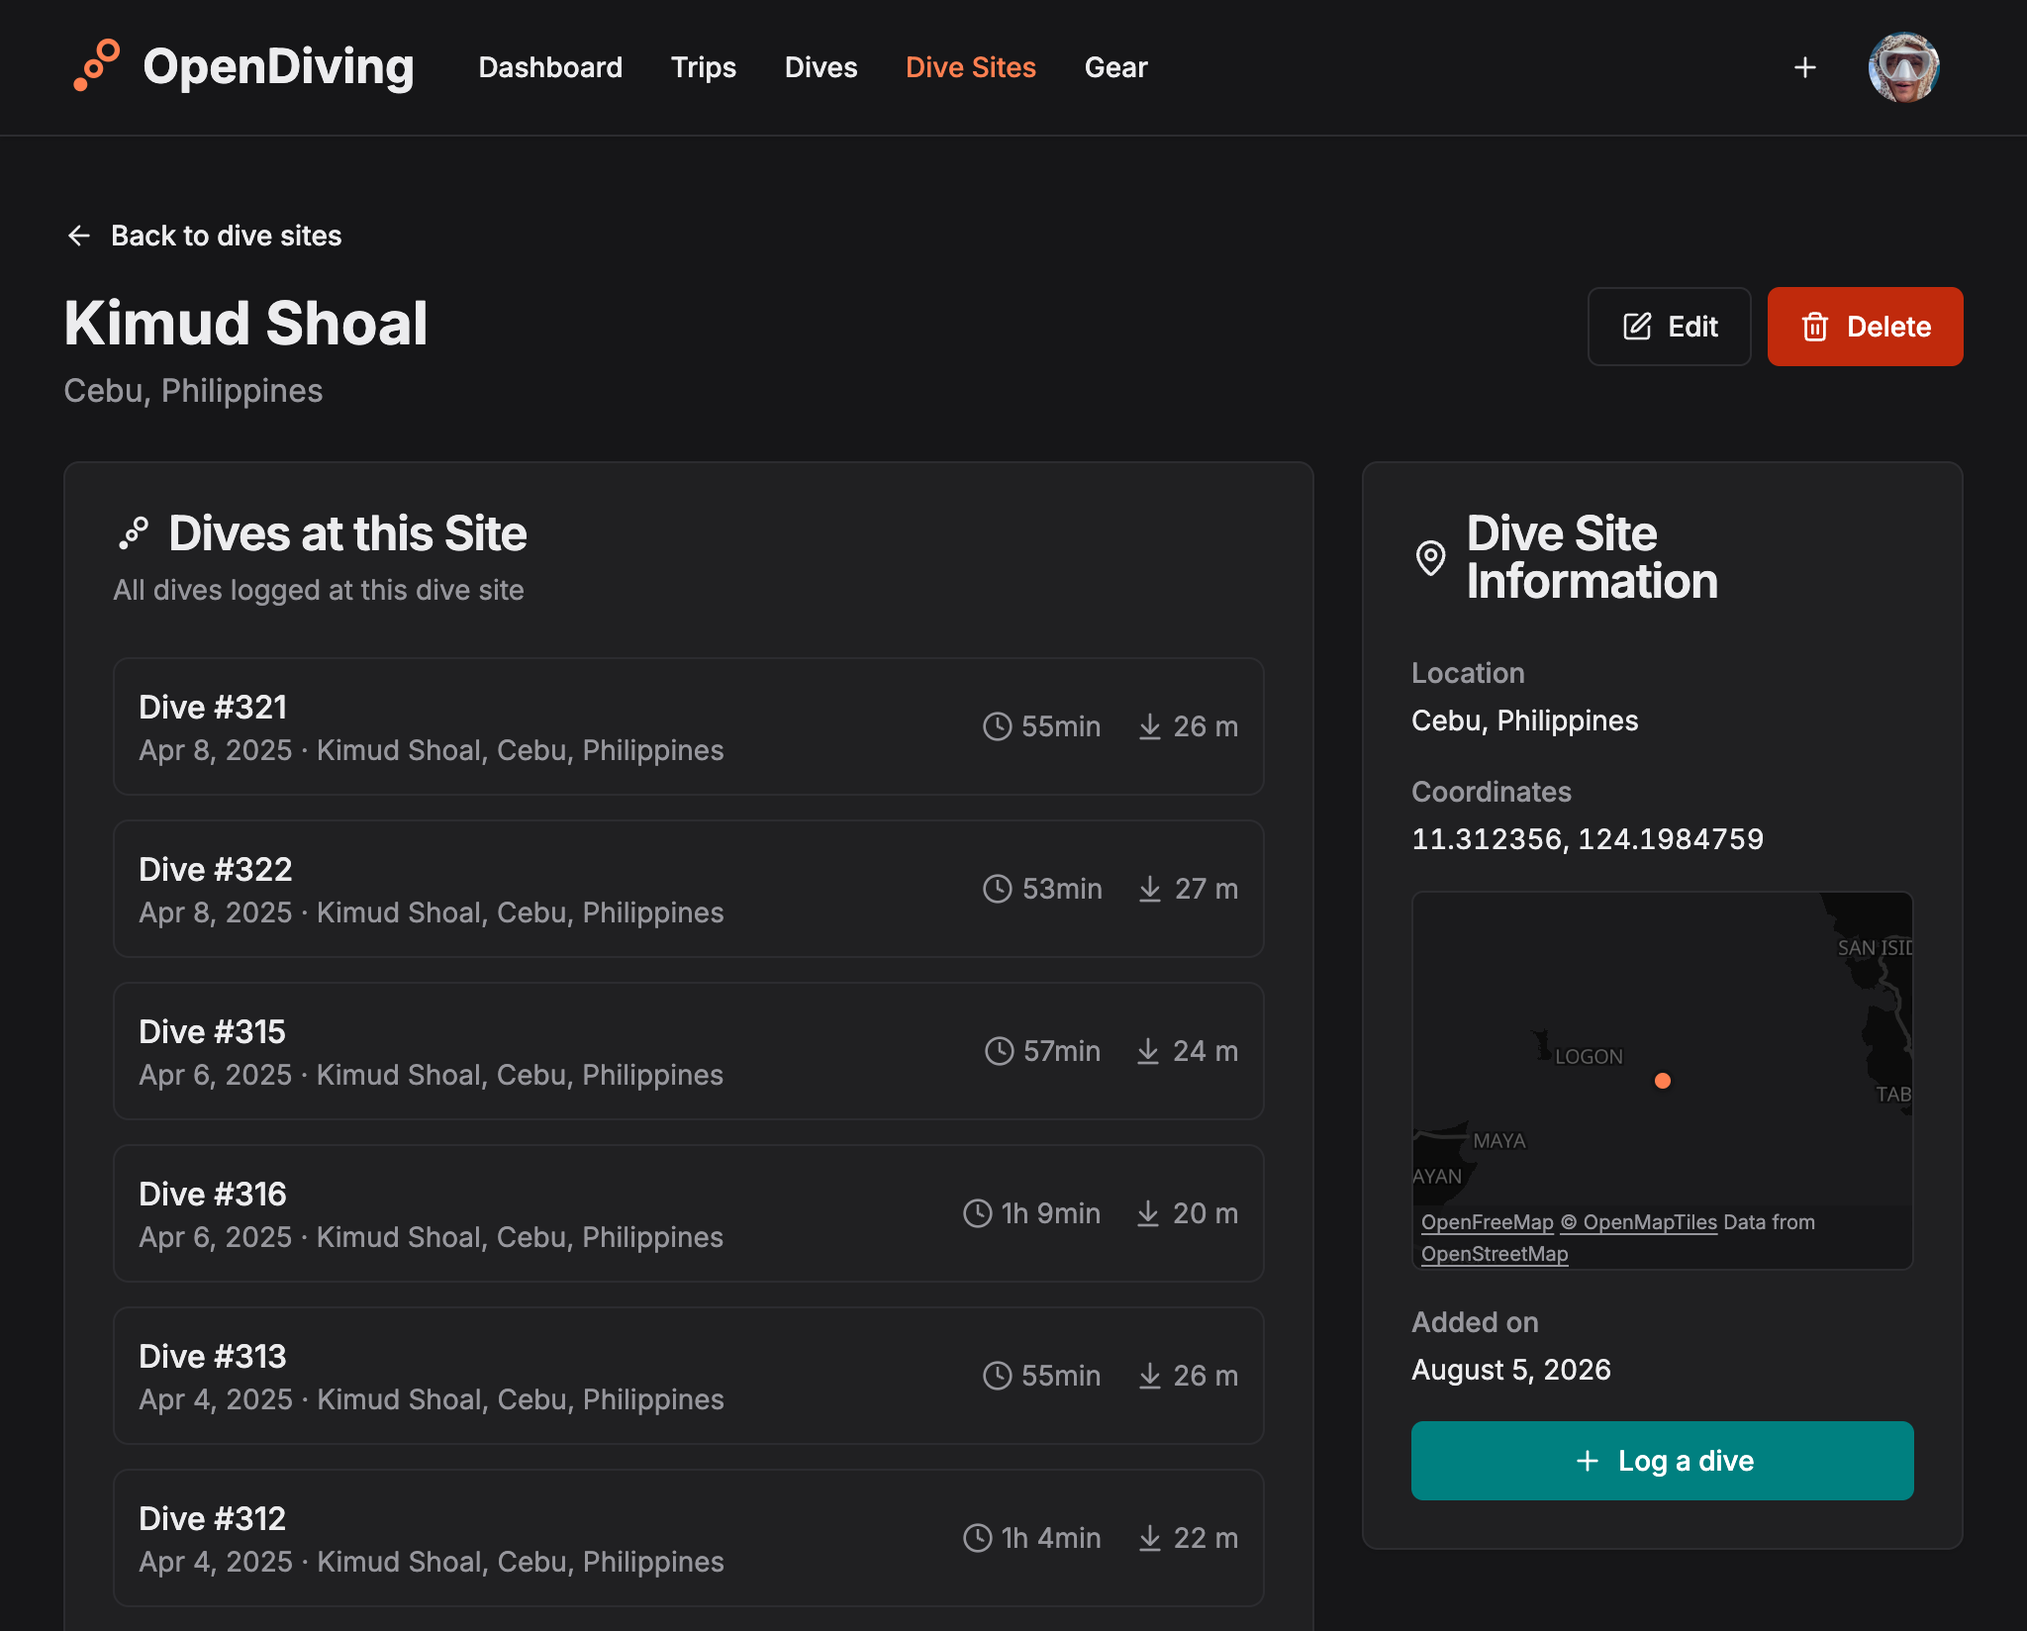
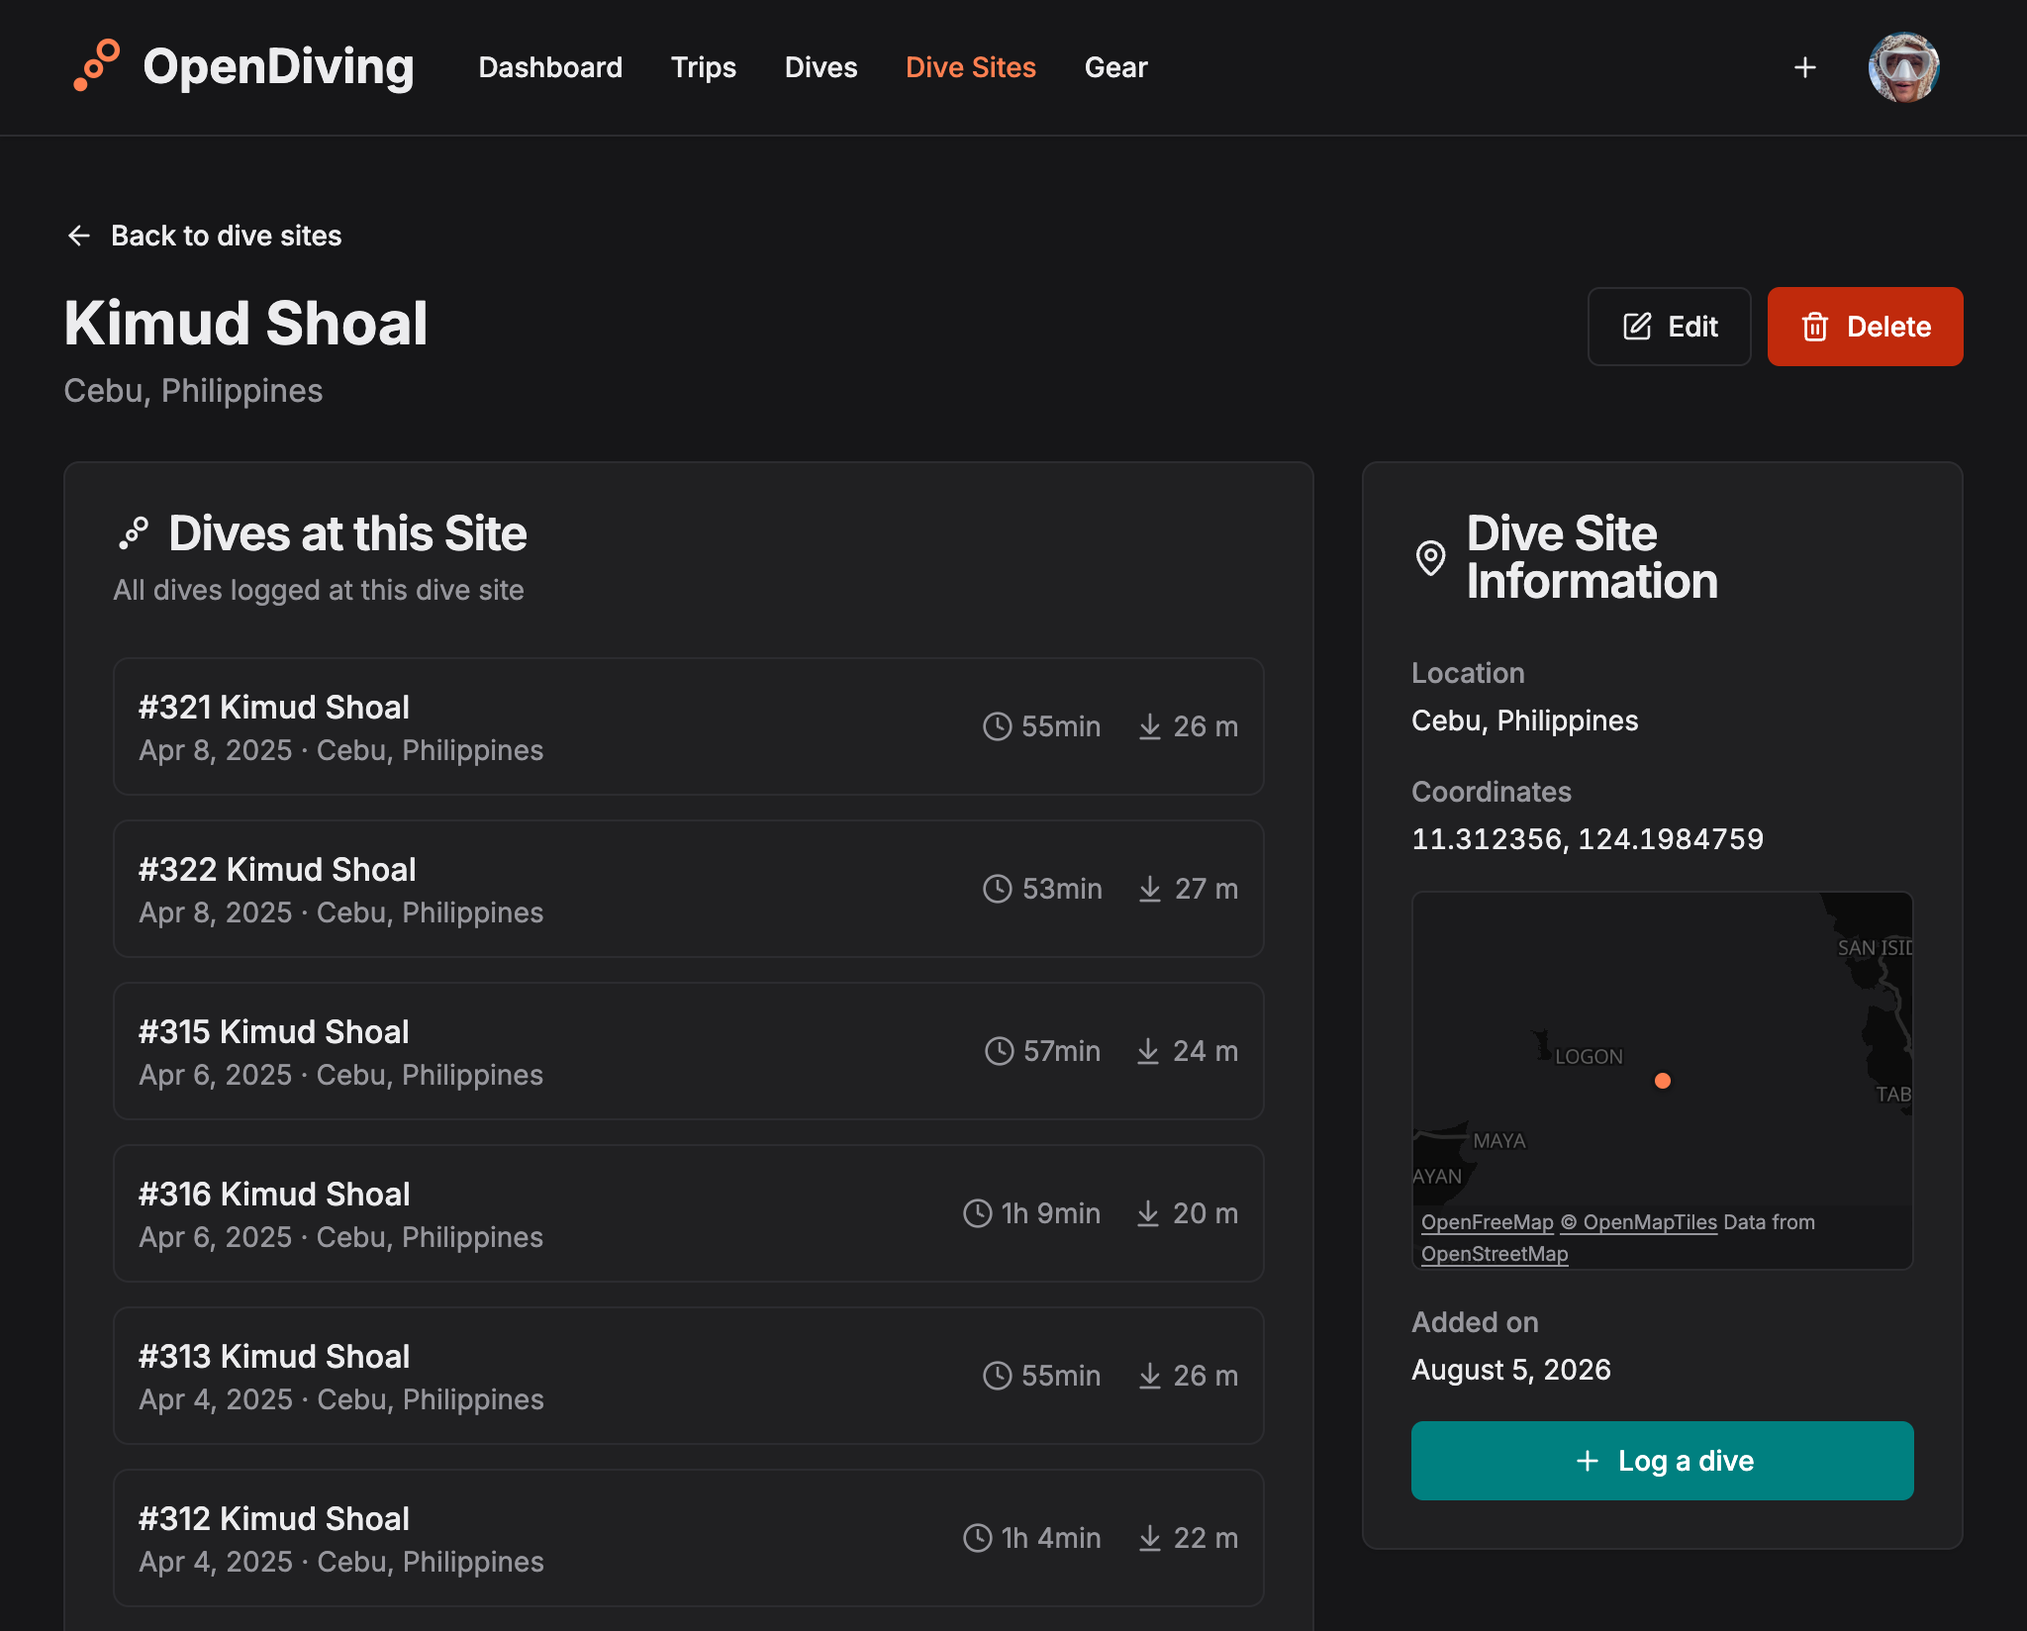
feat(dives): a dive is titled by its number and its site (#273)

diff --git a/src/components/dives/dive-detail-sidebar.tsx b/src/components/dives/dive-detail-sidebar.tsx
@@ -9,6 +9,7 @@ import { formatDistance, GeoPoint, haversineMeters } from "@/lib/geo-distance";
 import { formatCoordinates } from "@/lib/validations/dive-site";
 import { Card, CardContent, CardHeader, CardTitle } from "@/components/ui/card";
 import { DiveSitesLabel } from "@/components/dives/dive-sites-label";
+import { TripLocationsLabel } from "@/components/trips/trip-locations-label";
 import { DiveRecordingsCard } from "@/components/dives/dive-recordings-card";
 import { LocationsMap } from "@/components/map/locations-map-lazy";
 import type { MappableLocation } from "@/components/map/locations-map";
@@ -126,13 +127,24 @@ export function DiveDetailSidebar({
                 <div className="text-sm font-medium text-muted-foreground mb-1">
                   Trip
                 </div>
-                <Link
-                  href={`/trips/${trip.uuid}`}
-                  className="flex items-center gap-2 text-sm font-medium hover:underline"
-                >
-                  <Luggage className="h-4 w-4 text-muted-foreground" />
-                  {trip.name}
-                </Link>
+                {/* Only the name links - where a trip went is not a second
+                    way to reach it - and the icon sits against that first line
+                    rather than the middle of two. */}
+                <div className="flex items-start gap-2 text-sm">
+                  <Luggage className="h-4 w-4 shrink-0 mt-0.5 text-muted-foreground" />
+                  <div className="min-w-0">
+                    <Link
+                      href={`/trips/${trip.uuid}`}
+                      className="font-medium hover:underline"
+                    >
+                      {trip.name}
+                    </Link>
+                    <TripLocationsLabel
+                      locations={trip.locations}
+                      className="block text-muted-foreground"
+                    />
+                  </div>
+                </div>
               </div>
             )}
             {dive.dive_sites.length > 0 && (
@@ -140,9 +152,20 @@ export function DiveDetailSidebar({
                 <div className="text-sm font-medium text-muted-foreground mb-1">
                   Dive Site
                 </div>
-                <div className="flex items-center gap-2 text-sm font-medium">
-                  <MapPin className="h-4 w-4 text-muted-foreground" />
-                  <DiveSitesLabel sites={dive.dive_sites} linked />
+                <div className="flex items-start gap-2 text-sm">
+                  <MapPin className="h-4 w-4 shrink-0 mt-0.5 text-muted-foreground" />
+                  <div className="min-w-0">
+                    <DiveSitesLabel
+                      sites={dive.dive_sites}
+                      linked
+                      className="font-medium"
+                    />
+                    {dive.dive_sites[0]?.location && (
+                      <span className="block text-muted-foreground">
+                        {dive.dive_sites[0].location}
+                      </span>
+                    )}
+                  </div>
                 </div>
               </div>
             )}

diff --git a/e2e/instant-navigations.spec.ts b/e2e/instant-navigations.spec.ts
@@ -1,5 +1,6 @@
 import { instant } from "@next/playwright";
 
+import type { Dive } from "@/lib/api/dives";
 import {
   DIVE_A,
   DIVE_B,
@@ -53,6 +54,11 @@ declare global {
  * router happened to fetch it under.
  */
 const DIVE_ROUTE = /^\/dives\/[0-9a-f-]{36}$/;
+
+/** What the `<h1>` says for a dive: its number and where it was. */
+function diveTitle(dive: Dive) {
+  return `#${dive.dive_number} ${dive.dive_sites[0].name}`;
+}
 
 async function prefetched(api: ApiMock, route: RegExp) {
   await expect
@@ -142,7 +148,7 @@ test.describe("instant navigations", () => {
 
     api.release();
     await expect(page.getByRole("heading", { level: 1 })).toHaveText(
-      `Dive #${DIVE_A.dive_number}`,
+      diveTitle(DIVE_A),
     );
   });
 
@@ -156,7 +162,7 @@ test.describe("instant navigations", () => {
       .getByRole("link", { name: `View dive #${DIVE_A.dive_number}` })
       .click();
     await expect(page.getByRole("heading", { level: 1 })).toHaveText(
-      `Dive #${DIVE_A.dive_number}`,
+      diveTitle(DIVE_A),
     );
 
     const pager = page.getByRole("navigation", { name: "Adjacent dives" });
@@ -206,17 +212,17 @@ test.describe("instant navigations", () => {
       // dive being stepped away from is still on screen in the same `<h1>`, the
       // node the diver pressed still holds the keyboard, and no skeleton bar is
       // drawn anywhere.
-      await expect(heading).toHaveText(`Dive #${DIVE_A.dive_number}`);
+      await expect(heading).toHaveText(diveTitle(DIVE_A));
       await expect(pressed).toBeFocused();
       await expect(page.locator("main .animate-skeleton")).toHaveCount(0);
     });
 
     api.release();
-    await expect(heading).toHaveText(`Dive #${DIVE_B.dive_number}`);
+    await expect(heading).toHaveText(diveTitle(DIVE_B));
     await expect(pressed).toBeFocused();
     expect(await page.evaluate(() => window.__h1Texts)).toEqual([
-      `Dive #${DIVE_A.dive_number}`,
-      `Dive #${DIVE_B.dive_number}`,
+      diveTitle(DIVE_A),
+      diveTitle(DIVE_B),
     ]);
   });
 });

diff --git a/src/app/dives/page.tsx b/src/app/dives/page.tsx
@@ -6,7 +6,7 @@ import { useInfiniteResource } from "@/hooks/useInfiniteResource";
 import { useDeleteResource } from "@/hooks/useDeleteResource";
 import { divesAPI, Dive } from "@/lib/api/dives";
 import { DELETE_DIVE_CONFIRMATION } from "@/lib/dive-recordings";
-import { DiveSitesLabel } from "@/components/dives/dive-sites-label";
+import { DiveTitle } from "@/components/dives/dive-title";
 import { DiveNumberingCard } from "@/components/dives/dive-numbering-card";
 import { DivesPageFrame } from "@/components/dives/dives-page-frame";
 import {
@@ -113,17 +113,18 @@ export default function DivesPage() {
         }
         rows={dives.map((dive) => (
           <TableRow key={dive.uuid}>
-            <TableCell className="font-medium">#{dive.dive_number}</TableCell>
-            <TableCell>
-              <Link
-                href={`/dives/${dive.uuid}`}
-                className="text-sm font-medium hover:underline"
-              >
-                {formatDiveDateTime(dive.start_time)}
+            <TableCell className="font-medium">
+              <Link href={`/dives/${dive.uuid}`} className="hover:underline">
+                <DiveTitle
+                  diveNumber={dive.dive_number}
+                  sites={dive.dive_sites}
+                />
               </Link>
             </TableCell>
+            <TableCell>{formatDiveDateTime(dive.start_time)}</TableCell>
+            {/* The primary site's location - the site the first column names. */}
             <TableCell className="text-muted-foreground">
-              <DiveSitesLabel sites={dive.dive_sites} />
+              {dive.dive_sites[0]?.location ?? "-"}
             </TableCell>
             <TableCell>{formatDurationHoursMinutes(dive.duration)}</TableCell>
             <TableCell>

diff --git a/src/components/dives/recent-dives-card.tsx b/src/components/dives/recent-dives-card.tsx
@@ -4,7 +4,7 @@ import { useCallback } from "react";
 import Link from "next/link";
 import { divesAPI, Dive } from "@/lib/api/dives";
 import { useInfiniteResource } from "@/hooks/useInfiniteResource";
-import { DiveSitesLabel } from "@/components/dives/dive-sites-label";
+import { DiveTitle } from "@/components/dives/dive-title";
 import {
   formatDiveDateTime,
   formatDurationHoursMinutes,
@@ -184,7 +184,10 @@ export function RecentDivesCard({
                     row wide on the dashboard. */}
                 <div className="min-w-0">
                   <div className="font-medium text-foreground">
-                    Dive #{dive.dive_number}
+                    <DiveTitle
+                      diveNumber={dive.dive_number}
+                      sites={dive.dive_sites}
+                    />
                   </div>
                   <div className="text-sm text-muted-foreground">
                     <span className="block sm:inline">
@@ -194,10 +197,12 @@ export function RecentDivesCard({
                         day: "numeric",
                       })}
                     </span>
-                    {dive.dive_sites.length > 0 && (
+                    {/* The title names the site; this line says where it
+                        is. */}
+                    {dive.dive_sites[0]?.location && (
                       <span className="block sm:inline">
                         <span className="hidden sm:inline">{" \u00b7 "}</span>
-                        <DiveSitesLabel sites={dive.dive_sites} showLocation />
+                        {dive.dive_sites[0].location}
                       </span>
                     )}
                   </div>

diff --git a/src/components/dives/dive-title.render.test.tsx b/src/components/dives/dive-title.render.test.tsx
@@ -1,0 +1,39 @@
+import { describe, it, expect } from "vitest";
+import { render, screen } from "@testing-library/react";
+import { DiveTitle } from "./dive-title";
+
+// One name for a dive, written the same way in the log, on the cards and in the
+// page header - so what these pin down is the two dives that name is built from
+// differently: one with a site, and one with none.
+
+describe("DiveTitle", () => {
+  it("names the dive by its number and its site", () => {
+    const { container } = render(
+      <DiveTitle diveNumber={212} sites={[{ uuid: "a", name: "Blue Hole" }]} />,
+    );
+
+    expect(container).toHaveTextContent("#212 Blue Hole");
+  });
+
+  it("counts the sites a multi-site dive crossed", () => {
+    render(
+      <DiveTitle
+        diveNumber={212}
+        sites={[
+          { uuid: "a", name: "Pescador Island" },
+          { uuid: "b", name: "Panagsama Wall" },
+        ]}
+      />,
+    );
+
+    expect(screen.getByText("+1")).toBeInTheDocument();
+  });
+
+  it("falls back to 'Dive #N' when there is no site to name it by", () => {
+    // A bare "#212" names nothing, and the sites are the one part of a dive
+    // that is genuinely optional.
+    const { container } = render(<DiveTitle diveNumber={212} sites={[]} />);
+
+    expect(container).toHaveTextContent("Dive #212");
+  });
+});

diff --git a/src/app/dives/(detail)/layout.tsx b/src/app/dives/(detail)/layout.tsx
@@ -11,6 +11,7 @@ import { coursesAPI, Course } from "@/lib/api/courses";
 import { DELETE_DIVE_CONFIRMATION } from "@/lib/dive-recordings";
 import { DiveNeighborNav } from "@/components/dives/dive-neighbor-nav";
 import { DiveMergeAction } from "@/components/dives/dive-merge-action";
+import { DiveTitle } from "@/components/dives/dive-title";
 import { DiveDetailProvider } from "@/components/dives/dive-detail-context";
 import { Button } from "@/components/ui/button";
 import { ConfirmDialog } from "@/components/ui/confirm-dialog";
@@ -198,7 +199,9 @@ export default function DiveDetailLayout({
       <PageHeader
         backHref="/dives"
         backLabel="Back to dives"
-        title={`Dive #${dive.dive_number}`}
+        title={
+          <DiveTitle diveNumber={dive.dive_number} sites={dive.dive_sites} />
+        }
         // The time of day sits here with the date rather than in a card of its
         // own below: the two are one fact, and splitting them put the dive's
         // date in the header and the clock it was on two scroll positions away.

diff --git a/src/components/dives/dive-sites-label.tsx b/src/components/dives/dive-sites-label.tsx
@@ -5,8 +5,6 @@ export interface DiveSitesLabelProps {
   sites: DiveSiteSummary[];
   // Wrap the primary site's name in a link to its detail page.
   linked?: boolean;
-  // Append the primary site's location (", Koh Tao, Thailand") after its name.
-  showLocation?: boolean;
   className?: string;
 }
 
@@ -17,7 +15,6 @@ export interface DiveSitesLabelProps {
 export function DiveSitesLabel({
   sites,
   linked = false,
-  showLocation = false,
   className,
 }: DiveSitesLabelProps) {
   if (sites.length === 0) {
@@ -50,7 +47,6 @@ export function DiveSitesLabel({
       ) : (
         primary.name
       )}
-      {showLocation && primary.location && `, ${primary.location}`}
       {extra.length > 0 && (
         <span className="text-muted-foreground"> +{extra.length}</span>
       )}

diff --git a/src/components/dives/dive-title.tsx b/src/components/dives/dive-title.tsx
@@ -1,0 +1,21 @@
+import { DiveSiteSummary } from "@/lib/api/dives";
+import { DiveSitesLabel } from "@/components/dives/dive-sites-label";
+
+export interface DiveTitleProps {
+  diveNumber: number;
+  sites: DiveSiteSummary[];
+}
+
+// What a dive is called wherever one is named: "#212 Blue Hole", or "Dive #212"
+// for a dive with no site to name it by - a bare "#212" names nothing on its own.
+export function DiveTitle({ diveNumber, sites }: DiveTitleProps) {
+  if (sites.length === 0) {
+    return <>Dive #{diveNumber}</>;
+  }
+
+  return (
+    <>
+      #{diveNumber} <DiveSitesLabel sites={sites} />
+    </>
+  );
+}

diff --git a/src/components/dives/dive-sites-label.render.test.tsx b/src/components/dives/dive-sites-label.render.test.tsx
@@ -52,15 +52,4 @@ describe("DiveSitesLabel", () => {
 
     expect(screen.getByText("-")).toBeInTheDocument();
   });
-
-  it("appends the primary site's location when asked, and hints names only", () => {
-    // The hint is the list the "+N" compacted, so the location that only the
-    // primary site carries has no place in it.
-    render(<DiveSitesLabel sites={sites} showLocation />);
-
-    const hinted = screen.getByTitle(
-      "Pescador Island, Panagsama Wall, Tongo Point",
-    );
-    expect(hinted).toHaveTextContent("Moalboal, Philippines");
-  });
 });

diff --git a/src/components/dives/dives-page-frame.tsx b/src/components/dives/dives-page-frame.tsx
@@ -129,9 +129,9 @@ export function DivesPageFrame({
             >
               <TableHeader>
                 <TableRow>
-                  <TableHead>#</TableHead>
+                  <TableHead>Dive</TableHead>
                   <TableHead>Date & Time</TableHead>
-                  <TableHead>Dive Site</TableHead>
+                  <TableHead>Location</TableHead>
                   <TableHead>Duration</TableHead>
                   <TableHead>Max Depth</TableHead>
                   <TableHead className="text-right">Actions</TableHead>
